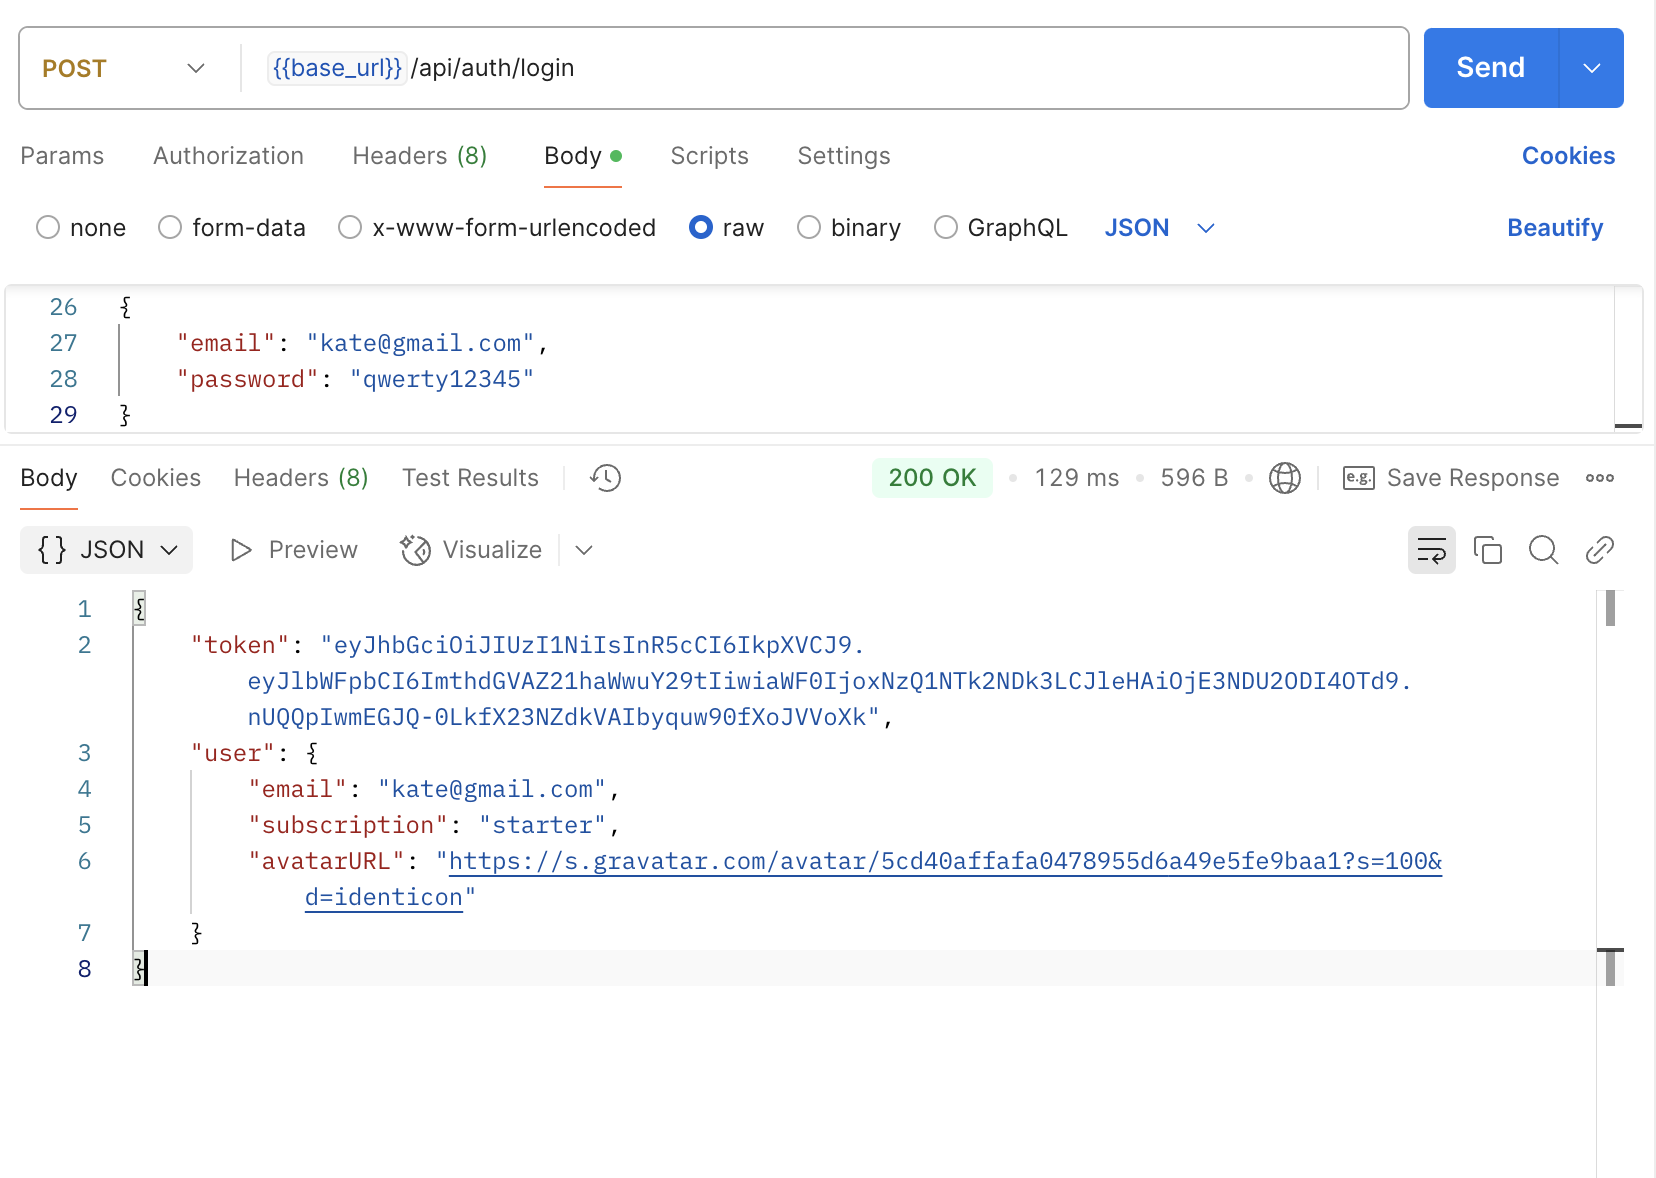
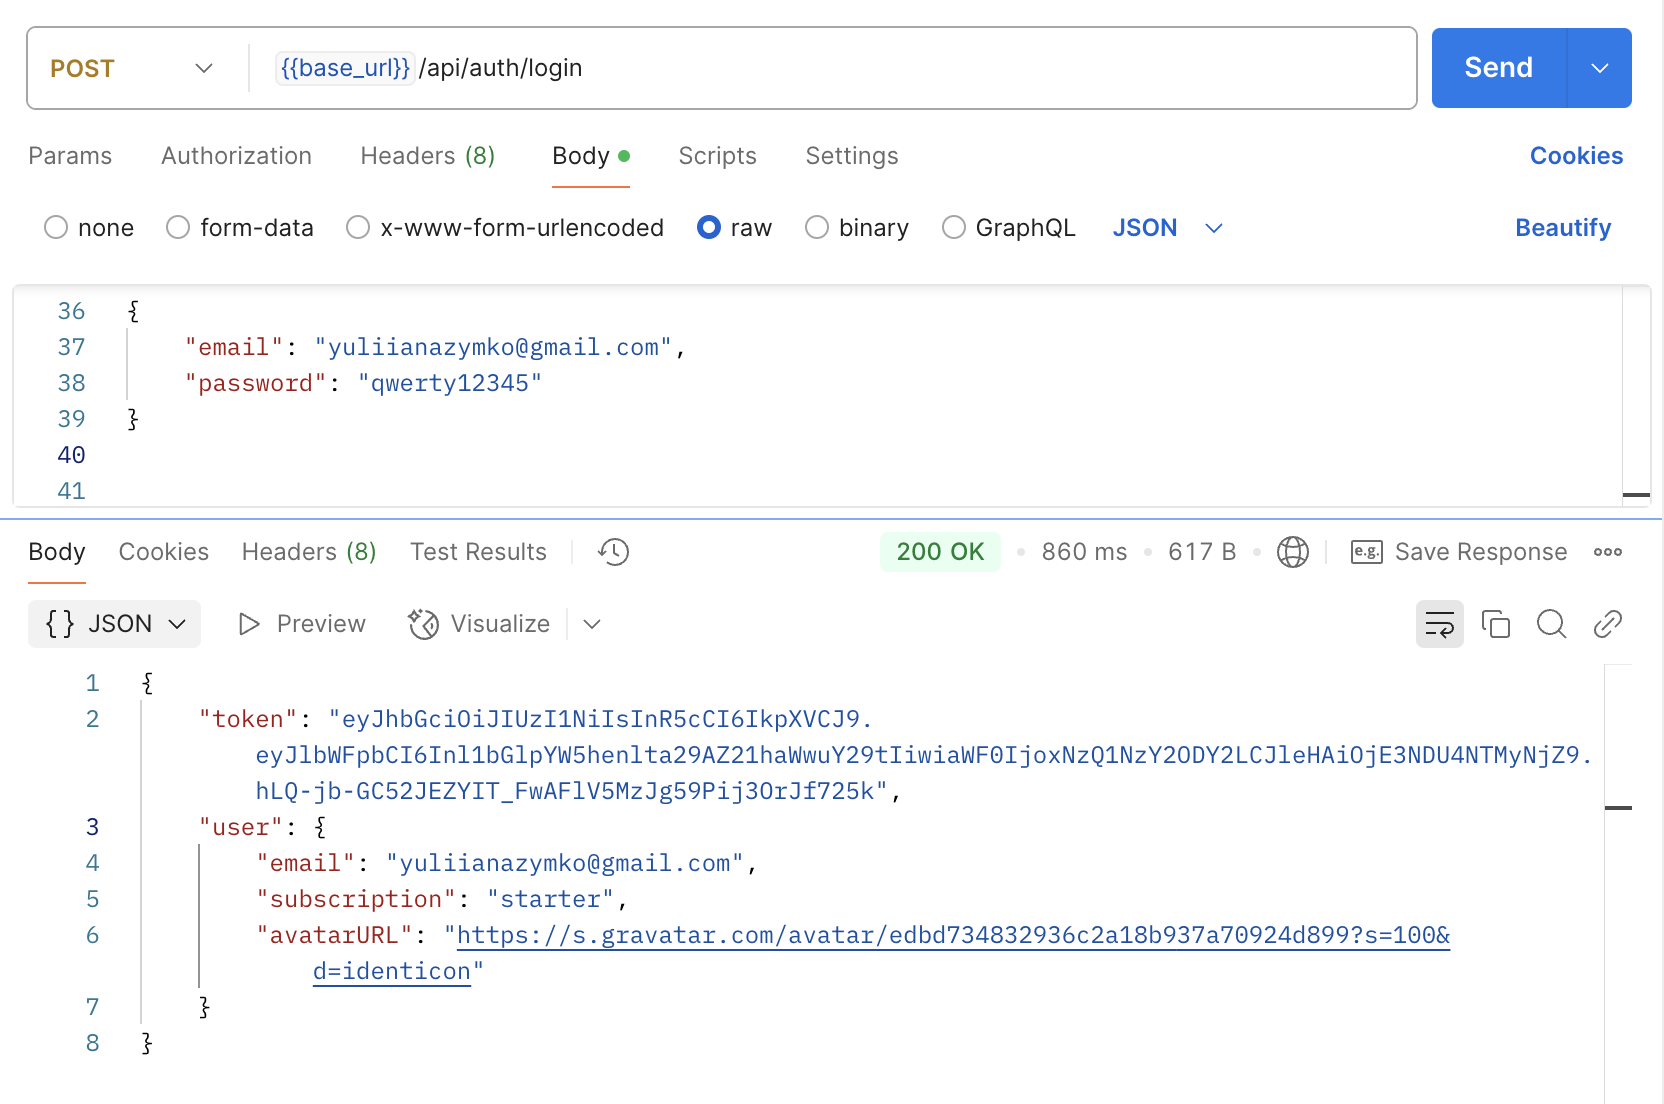
homework is completed

diff --git a/services/authServices.js b/services/authServices.js
@@ -1,8 +1,12 @@
 import bcrypt from 'bcrypt';
 import gravatar from 'gravatar';
+import { generateToken } from '../helpers/jwt.js';
+import { nanoid } from 'nanoid';
+import { v4 as uuidv4 } from 'uuid';
+
 import User from '../db/models/User.js';
 import HttpError from '../helpers/HttpError.js';
-import { generateToken } from '../helpers/jwt.js';
+import { sendVerificationEmail } from '../helpers/emailService.js';
 
 export const findUser = query =>
   User.findOne({
@@ -26,11 +30,20 @@ export const registerUser = async data => {
 
   const avatarURL = gravatar.url(email, { s: '100', d: 'identicon' }, true);
 
+  const verificationToken = uuidv4();
+
   const newUser = await User.create({
     ...data,
     password: hashPassword,
     avatarURL,
+    verificationToken,
   });
+
+  try {
+    await sendVerificationEmail(newUser.email, verificationToken);
+  } catch (error) {
+    console.error('Failed to send verification email:', error.message);
+  }
 
   return {
     email: newUser.email,
@@ -50,6 +63,13 @@ export const loginUser = async data => {
 
   if (!user) {
     throw HttpError(401, 'Email or password invalid');
+  }
+
+  if (!user.verify) {
+    throw HttpError(
+      401,
+      'Email not verified. Please check your email to verify your account'
+    );
   }
 
   const passwordCompare = await bcrypt.compare(password, user.password);
@@ -87,4 +107,47 @@ export const updateUserAvatar = async (id, data) => {
 
   await user.update(data);
   return user;
+};
+
+export const verifyEmail = async verificationToken => {
+  const user = await User.findOne({
+    where: { verificationToken },
+  });
+
+  if (!user) {
+    return null;
+  }
+
+  await user.update(
+    {
+      verify: true,
+      verificationToken: null,
+    },
+    { where: { id: user.id } }
+  );
+
+  return user;
+};
+
+export const resendVerificationEmail = async email => {
+  const user = await User.findOne({ where: { email } });
+
+  if (!user) {
+    return null;
+  }
+
+  if (user.verify) {
+    return { verified: true };
+  }
+
+  if (!user.verificationToken) {
+    const verificationToken = uuidv4();
+    await User.update({ verificationToken }, { where: { id: user.id } });
+
+    await sendVerificationEmail(email, verificationToken);
+    return { sent: true };
+  }
+
+  await sendVerificationEmail(email, user.verificationToken);
+  return { sent: true };
 };

diff --git a/helpers/emailService.js b/helpers/emailService.js
@@ -1,0 +1,49 @@
+// helpers/emailService.js
+import nodemailer from 'nodemailer';
+import 'dotenv/config';
+
+const { UKR_NET_EMAIL, UKR_NET_PASSWORD, BASE_URL } = process.env;
+
+if (!UKR_NET_EMAIL || !UKR_NET_PASSWORD) {
+  throw new Error('Email or password not defined in environment variables');
+}
+
+const transport = nodemailer.createTransport({
+  host: 'smtp.ukr.net',
+  port: 465,
+  secure: true,
+  auth: {
+    user: UKR_NET_EMAIL,
+    pass: UKR_NET_PASSWORD,
+  },
+});
+
+export const sendVerificationEmail = async (email, verificationToken) => {
+  const verificationLink = `${BASE_URL}/api/auth/verify/${verificationToken}`;
+
+  const mailOptions = {
+    from: UKR_NET_EMAIL,
+    to: email,
+    subject: 'Підтвердження реєстрації',
+    html: `
+      <div style="font-family: Arial, sans-serif; padding: 20px; background-color: #f4f4f4;">
+        <div style="max-width: 600px; margin: 0 auto; background-color: #ffffff; padding: 30px; border-radius: 8px; box-shadow: 0 2px 4px rgba(0,0,0,0.1);">
+          <h2 style="color: #333333; text-align: center;">Ласкаво просимо!</h2>
+          <p style="font-size: 16px; color: #666666;">
+            Дякуємо за реєстрацію. Щоб завершити процес, будь ласка, підтвердіть свою електронну пошту, натиснувши на кнопку нижче:
+          </p>
+          <div style="text-align: center; margin: 30px 0;">
+            <a href="${verificationLink}" style="background-color: #4CAF50; color: white; padding: 14px 24px; text-decoration: none; border-radius: 5px; font-size: 16px;">
+              Підтвердити Email
+            </a>
+          </div>
+          <p style="font-size: 14px; color: #999999; text-align: center;">
+            Якщо ви не реєструвались у нас, просто ігноруйте цей лист.
+          </p>
+        </div>
+      </div>
+    `,
+  };
+
+  await transport.sendMail(mailOptions);
+};

diff --git a/schemas/authSchemas.js b/schemas/authSchemas.js
@@ -2,12 +2,35 @@ import Joi from 'joi';
 import { emailRegexp } from '../constants/regexp.js';
 
 export const authRegisterSchema = Joi.object({
-  email: Joi.string().pattern(emailRegexp).required(),
-  password: Joi.string().min(6).required(),
+  email: Joi.string().pattern(emailRegexp).required().messages({
+    'string.email': 'Enter a valid email',
+    'string.empty': 'Email is required',
+    'any.required': 'missing required field email',
+  }),
+  password: Joi.string().min(6).required().messages({
+    'string.min': 'Password should be at least {#limit} characters long',
+    'string.empty': 'Password is required',
+    'any.required': 'missing required field password',
+  }),
   subscription: Joi.string().valid('starter', 'pro', 'business'),
 });
 
 export const authLoginSchema = Joi.object({
-  email: Joi.string().pattern(emailRegexp).required(),
-  password: Joi.string().min(6).required(),
+  email: Joi.string().pattern(emailRegexp).required().messages({
+    'string.pattern.base': 'Enter a valid email',
+    'string.empty': 'Email is required',
+    'any.required': 'missing required field email',
+  }),
+  password: Joi.string().min(6).required().messages({
+    'string.empty': 'Password is required',
+    'any.required': 'missing required field password',
+  }),
+});
+
+export const emailSchema = Joi.object({
+  email: Joi.string().pattern(emailRegexp).required().messages({
+    'string.pattern.base': 'Enter a valid email',
+    'string.empty': 'Email is required',
+    'any.required': 'missing required field email',
+  }),
 });

diff --git a/controllers/authControllers.js b/controllers/authControllers.js
@@ -84,10 +84,47 @@ export const updateAvatarController = ctrlWrapper(async (req, res) => {
   res.status(200).json({ avatarURL: newAvatarURL });
 });
 
+const verifyEmail = async (req, res) => {
+  const { verificationToken } = req.params;
+
+  const user = await authServices.verifyEmail(verificationToken);
+  if (!user) {
+    throw HttpError(404, 'User not found');
+  }
+
+  res.status(200).json({
+    message: 'Verification successful',
+  });
+};
+
+const resendVerificationEmail = async (req, res) => {
+  const { email } = req.body;
+
+  if (!email) {
+    throw HttpError(400, 'missing required field email');
+  }
+
+  const result = await authServices.resendVerificationEmail(email);
+
+  if (!result) {
+    throw HttpError(404, 'User not found');
+  }
+
+  if (result.verified) {
+    throw HttpError(400, 'Verification has already been passed');
+  }
+
+  res.status(200).json({
+    message: 'Verification email sent',
+  });
+};
+
 export default {
   registerController: ctrlWrapper(registerController),
   loginController: ctrlWrapper(loginController),
   logoutController: ctrlWrapper(logoutController),
   getCurrentController: ctrlWrapper(getCurrentController),
   updateAvatarController: ctrlWrapper(updateAvatarController),
+  verifyEmail: ctrlWrapper(verifyEmail),
+  resendVerificationEmail: ctrlWrapper(resendVerificationEmail),
 };

diff --git a/routes/authRouter.js b/routes/authRouter.js
@@ -5,7 +5,11 @@ import upload from '../middlewares/upload.js';
 import authControllers from '../controllers/authControllers.js';
 import validateBody from '../decorators/validateBody.js';
 
-import { authRegisterSchema, authLoginSchema } from '../schemas/authSchemas.js';
+import {
+  authRegisterSchema,
+  authLoginSchema,
+  emailSchema,
+} from '../schemas/authSchemas.js';
 
 const authRouter = express.Router();
 
@@ -30,5 +34,13 @@ authRouter.patch(
   authenticate,
   upload.single('avatar'),
   authControllers.updateAvatarController
+);
+
+authRouter.get('/verify/:verificationToken', authControllers.verifyEmail);
+
+authRouter.post(
+  '/verify',
+  validateBody(emailSchema),
+  authControllers.resendVerificationEmail
 );
 export default authRouter;

diff --git a/db/models/User.js b/db/models/User.js
@@ -32,6 +32,13 @@ const User = sequelize.define(
       type: DataTypes.STRING,
       allowNull: true,
     },
+    verify: {
+      type: DataTypes.BOOLEAN,
+      defaultValue: false,
+    },
+    verificationToken: {
+      type: DataTypes.STRING,
+    },
   },
   {
     createdAt: false,

diff --git a/README.md b/README.md
@@ -1,31 +1,23 @@
-# Домашнє завдання. Тема 7. Аутентифікація та авторизація
+# Домашнє завдання. Тема 11. Websockets
 
 ### Результати виконаного ДЗ
 
-![Results](./assets/register_201.png)
+![Results](./assets/register.png)
 
-![Results](./assets/register_error.png)
+![Results](./assets/login_401.png)
+
+![Results](./assets/email.png)
+
+![Results](./assets/message.png)
 
 ![Results](./assets/login_200.png)
 
-![Results](./assets/login_error.png)
+![Results](./assets/verify_400_missing.png)
 
-![Results](./assets/logout_204.png)
+![Results](./assets/verify_400_passed.png)
 
-![Results](./assets/current_200.png)
+![Results](./assets/verify_200.png)
 
-![Results](./assets/current_error.png)
+![Results](./assets/verify_404.png)
 
-![Results](./assets/avatar.png)
-
-![Results](./assets/addContact.png)
-
-![Results](./assets/getContacts.png)
-
-![Results](./assets/getContact.png)
-
-![Results](./assets/updateContact.png)
-
-![Results](./assets/deleteContact.png)
-
-![Results](./assets/favourite.png)
+![Results](./assets/verifyToken_200.png)
